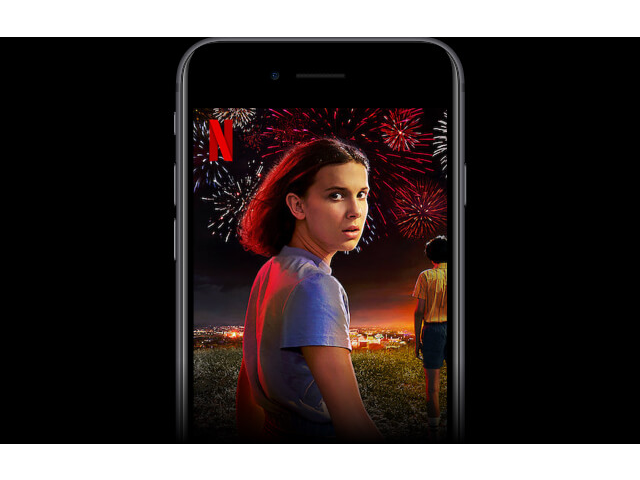
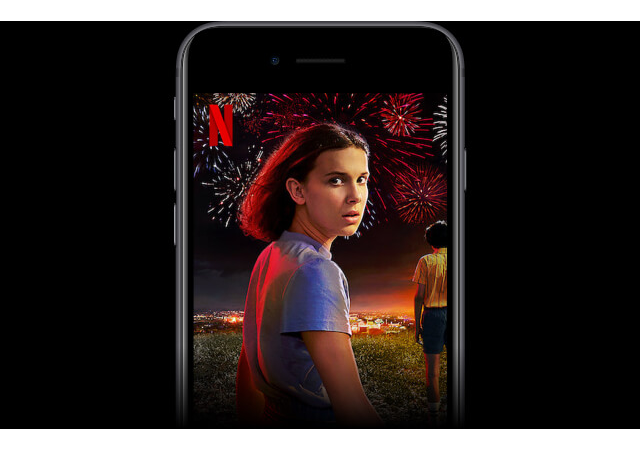
Correção de bugs visuais e responsividade
Ao utilizar a página em outros tipos de tela, percebi que havia um problema: todas as imagens principais de cada seção estavam sendo colocadas na frente do header, um problema ocasionado pela utilização equivocada do z-index ao longo do projeto. Também notei que, para deixar as seções mais responsivas, seria preciso incluir, tanto no wrapper das imagens principais de cada seção quanto no texto principal, um flex-basis de 50%, pois, desse modo, seria possível que tanto o texto quanto a imagem principais de cada seção diminuíssem ao mesmo tempo na medida em que a viewport fosse diminuída de tamanho.

Além disso, também adicionei sombras para a logo e os itens da navbar do header para que esses elementos ficassem mais visíveis acima das imagens presentes na página.

diff --git a/assets/html/index.html b/assets/html/index.html
@@ -33,7 +33,7 @@
             </header>
 
             <div class="main-content">
-                <div class="main-title">
+                <div class="main-text">
                     <h1>Unlimited movies, TV shows, and more!</h1>
                     <p>Watch anywhere. Cancel anytime.</p>
                 </div>
@@ -55,47 +55,47 @@
         </div>
     </section>
 
-    <div class="main-container section-n2">
+    <div id="section-n2" class="main-container">
         <div class="content">
-            <div class="main-title">
+            <div class="main-text">
                 <h2>Enjoy on your TV.</h2>
                 <p>Watch on Smart TVs, Playstation, Xbox, Chromecast, Apple TV, Blu-ray players, and more.</p>
             </div>
-            <div class="img-wrapper">
-                <img class="section-img" src="../img/img-section-n2.png" alt="image of a tv displaying netflix app">
+            <div class="main-img-wrapper">
+                <img class="main-img-section" src="../img/img-section-n2.png" alt="image of a tv displaying netflix app">
             </div>
         </div>
     </div>
 
-    <div class="main-container section-n3">
+    <div id="section-n3" class="main-container">
         <div class="content">
-            <div class="img-wrapper">
-                <img class="section-img" src="../img/img-section-n3.png" alt="image of a tv displaying netflix app">
+            <div class="main-img-wrapper">
+                <img class="main-img-section" src="../img/img-section-n3.png" alt="image of a tv displaying netflix app">
             </div>
-            <div class="main-title">
+            <div class="main-text">
                 <h2>Watch everywhere.</h2>
                 <p>Stream unlimited movies and TV shows on your phone, tablet, laptop, and TV without paying more.</p>
             </div>
         </div>
     </div>
 
-    <div class="main-container section-n4">
+    <div id="section-n4" class="main-container">
         <div class="content">
-            <div class="main-title">
+            <div class="main-text">
                 <h2>Create profiles for kids.</h2>
                 <p>Send kids on adventures with their favorite characters in a space made just for them—free with your membership.</p>
             </div>
-            <div class="img-wrapper">
-                <img class="section-img" src="../img/img-section-n4.png" alt="image of a tv displaying netflix app">
+            <div class="main-img-wrapper">
+                <img class="main-img-section" src="../img/img-section-n4.png" alt="image of a tv displaying netflix app">
             </div>
         </div>
     </div>
 
-    <div class="main-container section-n5">
+    <div id="section-n5" class="main-container">
         <div class="content">
-            <div class="download-serie-main-img-container">
-                <div class="img-wrapper">
-                    <img class="section-img" src="../img/img-section-n5.png" alt="image of a tv displaying netflix app">
+            <div class="download-serie-img-container">
+                <div class="main-img-wrapper  main-img-section-n5-wrapper">
+                    <img class="main-img-section" src="../img/img-section-n5.png" alt="image of a tv displaying netflix app">
                 </div>
                 <div class="download-serie-animation-container">
                     <div class="stranger-things-text-post-container">
@@ -112,7 +112,7 @@
                     </div>
                 </div>
             </div>
-            <div class="main-title">
+            <div class="main-text">
                 <h2>Download your shows to watch offline.</h2>
                 <p>Only available on ad-free plans.</p>
             </div>

diff --git a/assets/css/main_style.css b/assets/css/main_style.css
@@ -3,8 +3,8 @@
     justify-content: center;
     align-items: center;
     background: var(--clr-black);
-    min-height: 55vh;
-    min-height: 55svh;
+    min-height: 60vh;
+    min-height: 60svh;
 }
 
 .content {
@@ -15,6 +15,7 @@
     margin: 0 auto;
     width: min(120rem, 100%);
     height: 100%;
+    padding: 0 3rem;
 }
 
 [class*="wrapper"] {
@@ -22,7 +23,7 @@
     position: relative;
 }
 
-[class*="wrapper"]>*:not(label) {
+[class*="wrapper"] > *:not(label) {
     width: 100%;
     height: 100%;
 }
@@ -31,7 +32,7 @@
     padding-top: var(--header-offset);
     height: 80vh;
     height: 80svh;
-    z-index: 0;
+    z-index: 1;
     position: relative;
     background-image: url('../img/bg_hero_section.jpg');
     background-repeat: no-repeat;
@@ -54,12 +55,17 @@
 }
 
 .logo-wrapper {
-    width: 14rem;
+    width: 16rem;
+    padding: 0.5rem 0;
+    background: #000000cc;
+    -webkit-box-shadow: 0px 0px 15px 10px #000000e6;
+    -moz-box-shadow: 0px 0px 15px 10px #000000e6;
+    box-shadow: 0px 0px 15px 10px #000000e6;
 }
 
 .main-header {
-    z-index: 1;
     position: fixed;
+    z-index: 1;
     padding: 0 8rem;
     height: 7rem;
     top: 0;
@@ -87,6 +93,11 @@
     display: block;
     position: relative;
     color: #c1c1c1;
+    padding: 0.5rem 0;
+    background: #000000cc;
+    -webkit-box-shadow: 0px 0px 15px 10px #000000e6;
+    -moz-box-shadow: 0px 0px 15px 10px #000000e6;
+    box-shadow: 0px 0px 15px 10px #000000e6;
 }
 
 .main-nav a::after {
@@ -96,7 +107,7 @@
     height: 0.2rem;
     background: #db0c0c;
     left: 0;
-    bottom: -0.5rem;
+    bottom: 0;
     transition: all 0.2s ease-in-out;
 }
 
@@ -109,11 +120,11 @@
     transition: all 0.2s ease-in-out;
 }
 
-.hero-section .main-title {
+.hero-section .main-text {
     text-align: center;
 }
 
-.hero-section .main-title p {
+.hero-section .main-text p {
     margin-top: 1rem;
 }
 
@@ -189,13 +200,17 @@
     background-color: #ab0000;
 }
 
-.main-title p {
+.main-text p {
     margin-top: 2rem;
     font-size: 2.5rem;
 }
 
-.main-title, .img-wrapper {
-    flex: 1;
+.main-img-wrapper {
+    flex: 1 50%;
+}
+
+.main-text {
+    flex: 1 50%;
 }
 
 .img-wrapper {
@@ -203,15 +218,15 @@
     align-items: center;
 }
 
-[class*="section-n"] {
+[id*="section-n"] {
     box-shadow: inset 0 -1rem #323232;
 }
 
-[class*="section-n"] .content {
+[id*="section-n"] .content {
     gap: 5rem;
 }
 
-.download-serie-main-img-container {
+.download-serie-img-container {
     position: relative;
 }
 
@@ -224,7 +239,7 @@
     transform: translate(-50%, -80%);
     background: black;
     border: 0.2rem solid #323232;
-    width: 50%;
+    width: 60%;
     height: 10rem;
     display: flex;
     justify-content: space-between;
@@ -252,7 +267,7 @@
 
 .stranger-things-text-post-container {
     display: flex;
-    gap: 1rem;
+    gap: 2rem;
     align-items: center;
 }
 
@@ -263,3 +278,7 @@
 .download-animation-wrapper {
     max-width: 5rem;
 }
+
+/* #section-n5 .main-text {
+    flex: 2;
+} */
